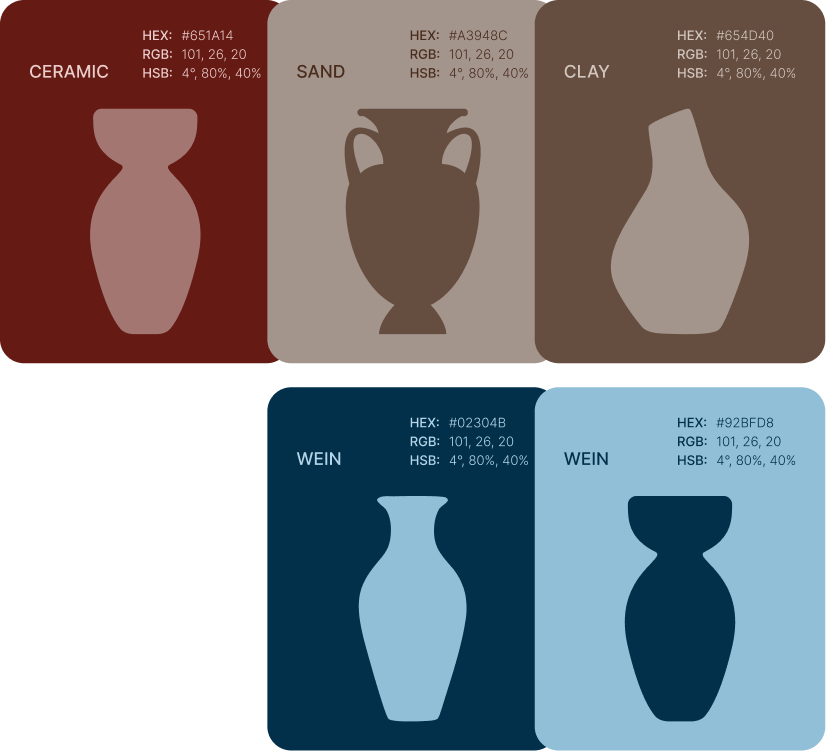
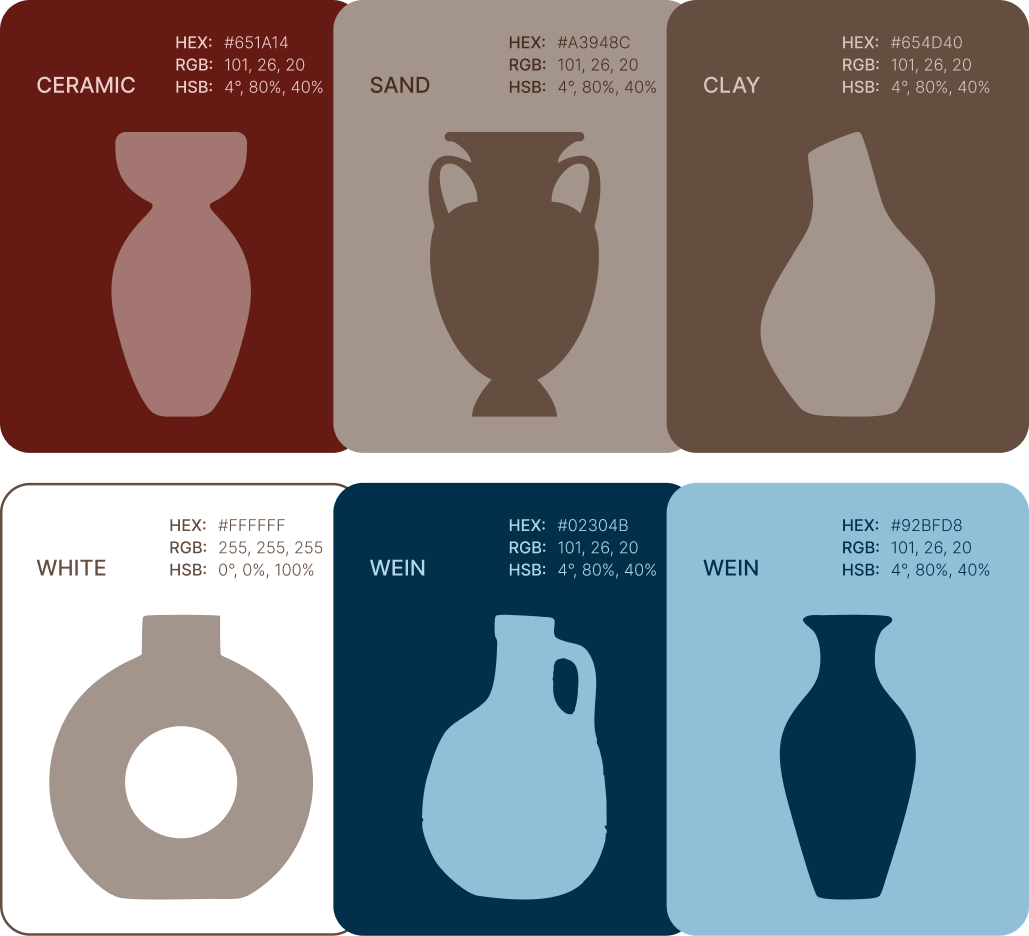
Updates

diff --git a/index.html b/index.html
@@ -15,7 +15,7 @@
     <link rel="icon" type="image/png" sizes="32x32" href="/portfolio/svg/logo-favicon-32.png">
     <link rel="icon" type="image/png" sizes="96x96" href="/portfolio/svg/logo-favicon-192.png">
     
-    <script type="module" crossorigin src="/portfolio-designer/assets/index-BUYgCfiX.js"></script>
+    <script type="module" crossorigin src="/portfolio-designer/assets/index-DMRG9gOf.js"></script>
     <link rel="stylesheet" crossorigin href="/portfolio-designer/assets/index-Bd201oX4.css">
   </head>
   <body>